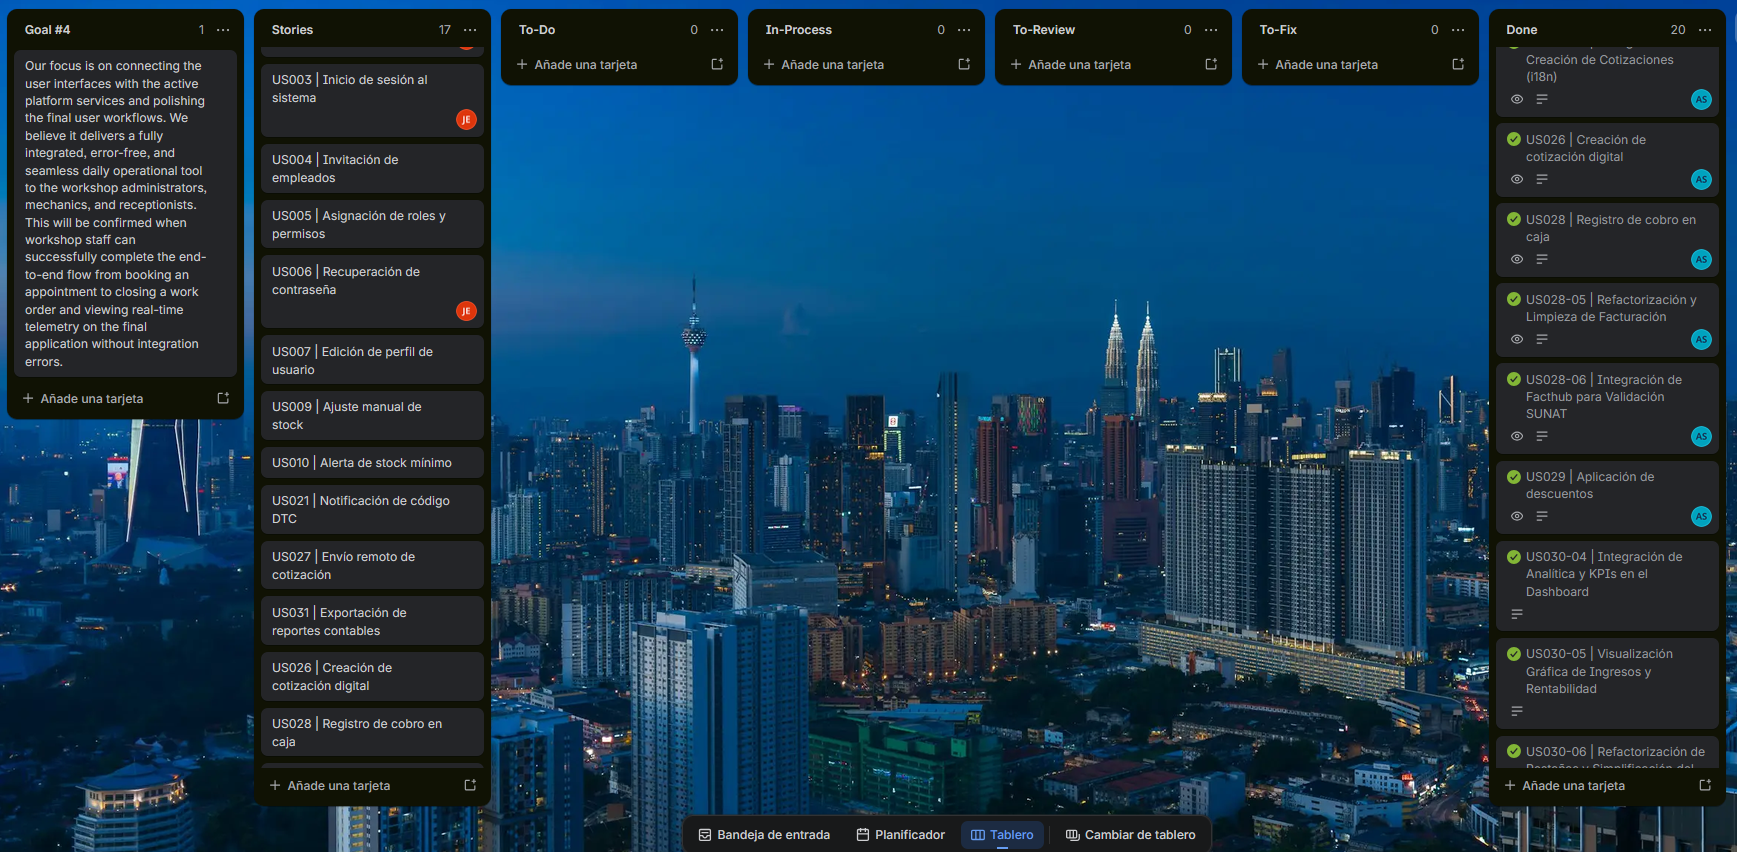
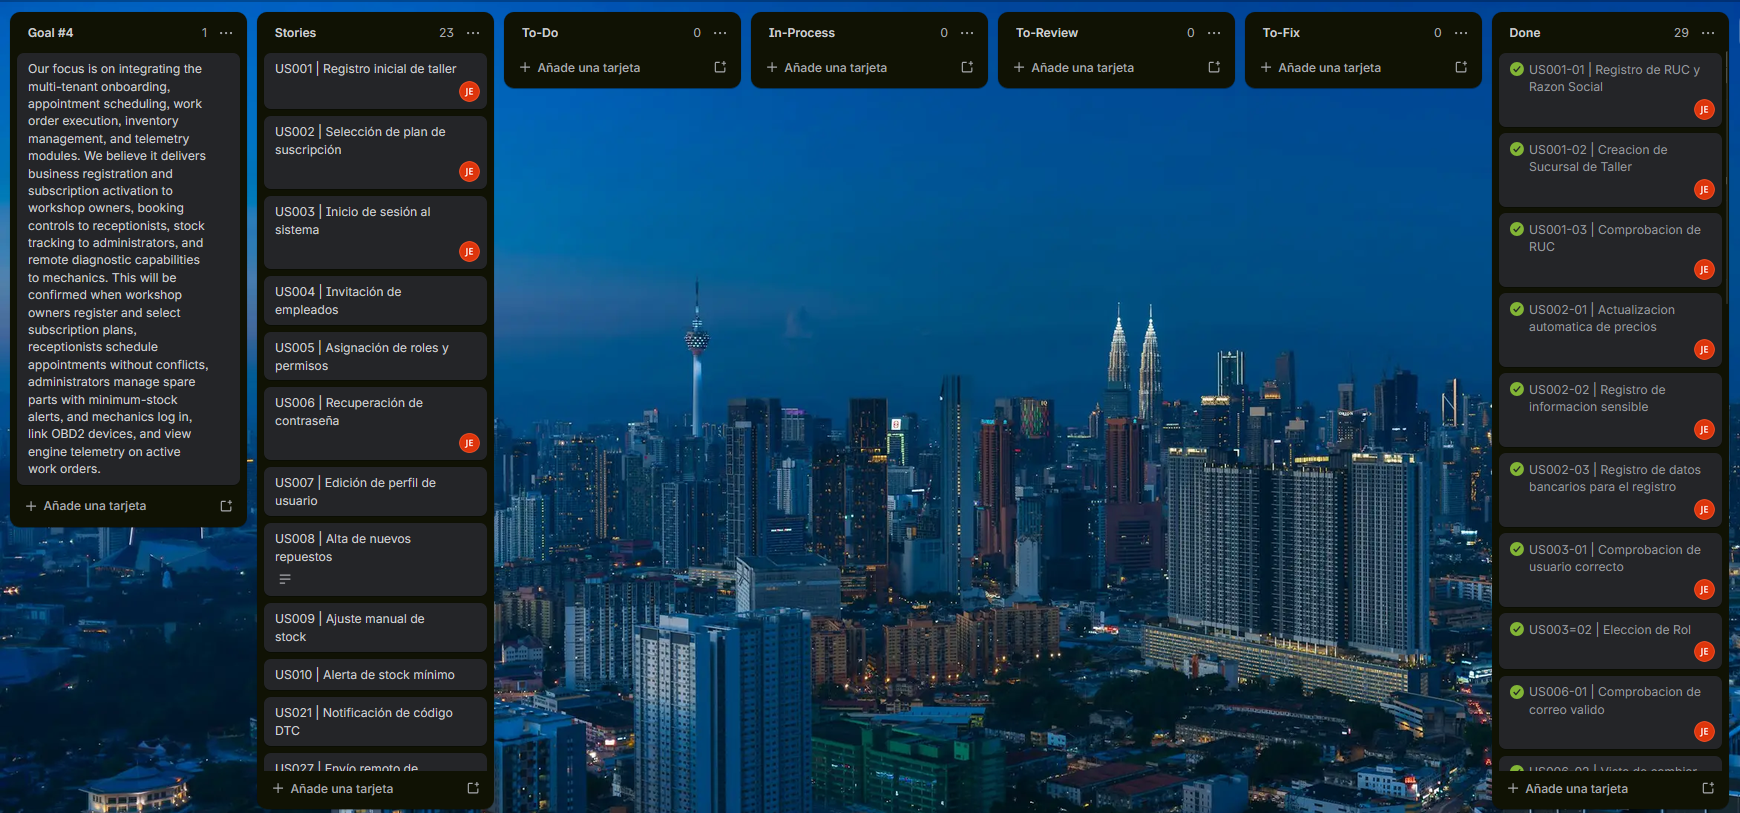
docs(report): update sprint 4 goal and backlog table.

diff --git a/report/35-landing-page-services-and-applications-implementation.md b/report/35-landing-page-services-and-applications-implementation.md
@@ -8849,7 +8849,7 @@
 |    Sprint 4 - 3 Review Summary      |     The team successfully deployed the relational database and the complete set of RESTful API endpoints. The core backend services, including multi-tenant isolation and the telemetry ingestion engine, were validated using API testing tools.     |
 |    Sprint 4 – 3 Retrospective Summary      |     The team recognized that strict payload matching is required between the client and the server. We agreed to prioritize the implementation of global error handling and loading states in the frontend to provide immediate feedback to the users during API calls.     |
 |     **Sprint Goal & User Stories**     |          |
-|     Sprint 4 Goal     |    Our focus is on connecting the user interfaces with the active platform services and polishing the final user workflows. We believe it delivers a fully integrated, error-free, and seamless daily operational tool to the workshop administrators, mechanics, and receptionists. This will be confirmed when workshop staff can successfully complete the end-to-end flow from booking an appointment to closing a work order and viewing real-time telemetry on the final application without integration errors.      |
+|     Sprint 4 Goal     |    Our focus is on integrating the multi-tenant onboarding, appointment scheduling, work order execution, inventory management, and telemetry modules. We believe it delivers business registration and subscription activation to workshop owners, booking controls to receptionists, stock tracking to administrators, and remote diagnostic capabilities to mechanics. This will be confirmed when workshop owners register and select subscription plans, receptionists schedule appointments without conflicts, administrators manage spare parts with minimum-stock alerts, and mechanics log in, link OBD2 devices, and view engine telemetry on active work orders. |
 |     Sprint 4 Velocity     |     37     |
 |     Sum of Story Points     |    37      |
 
